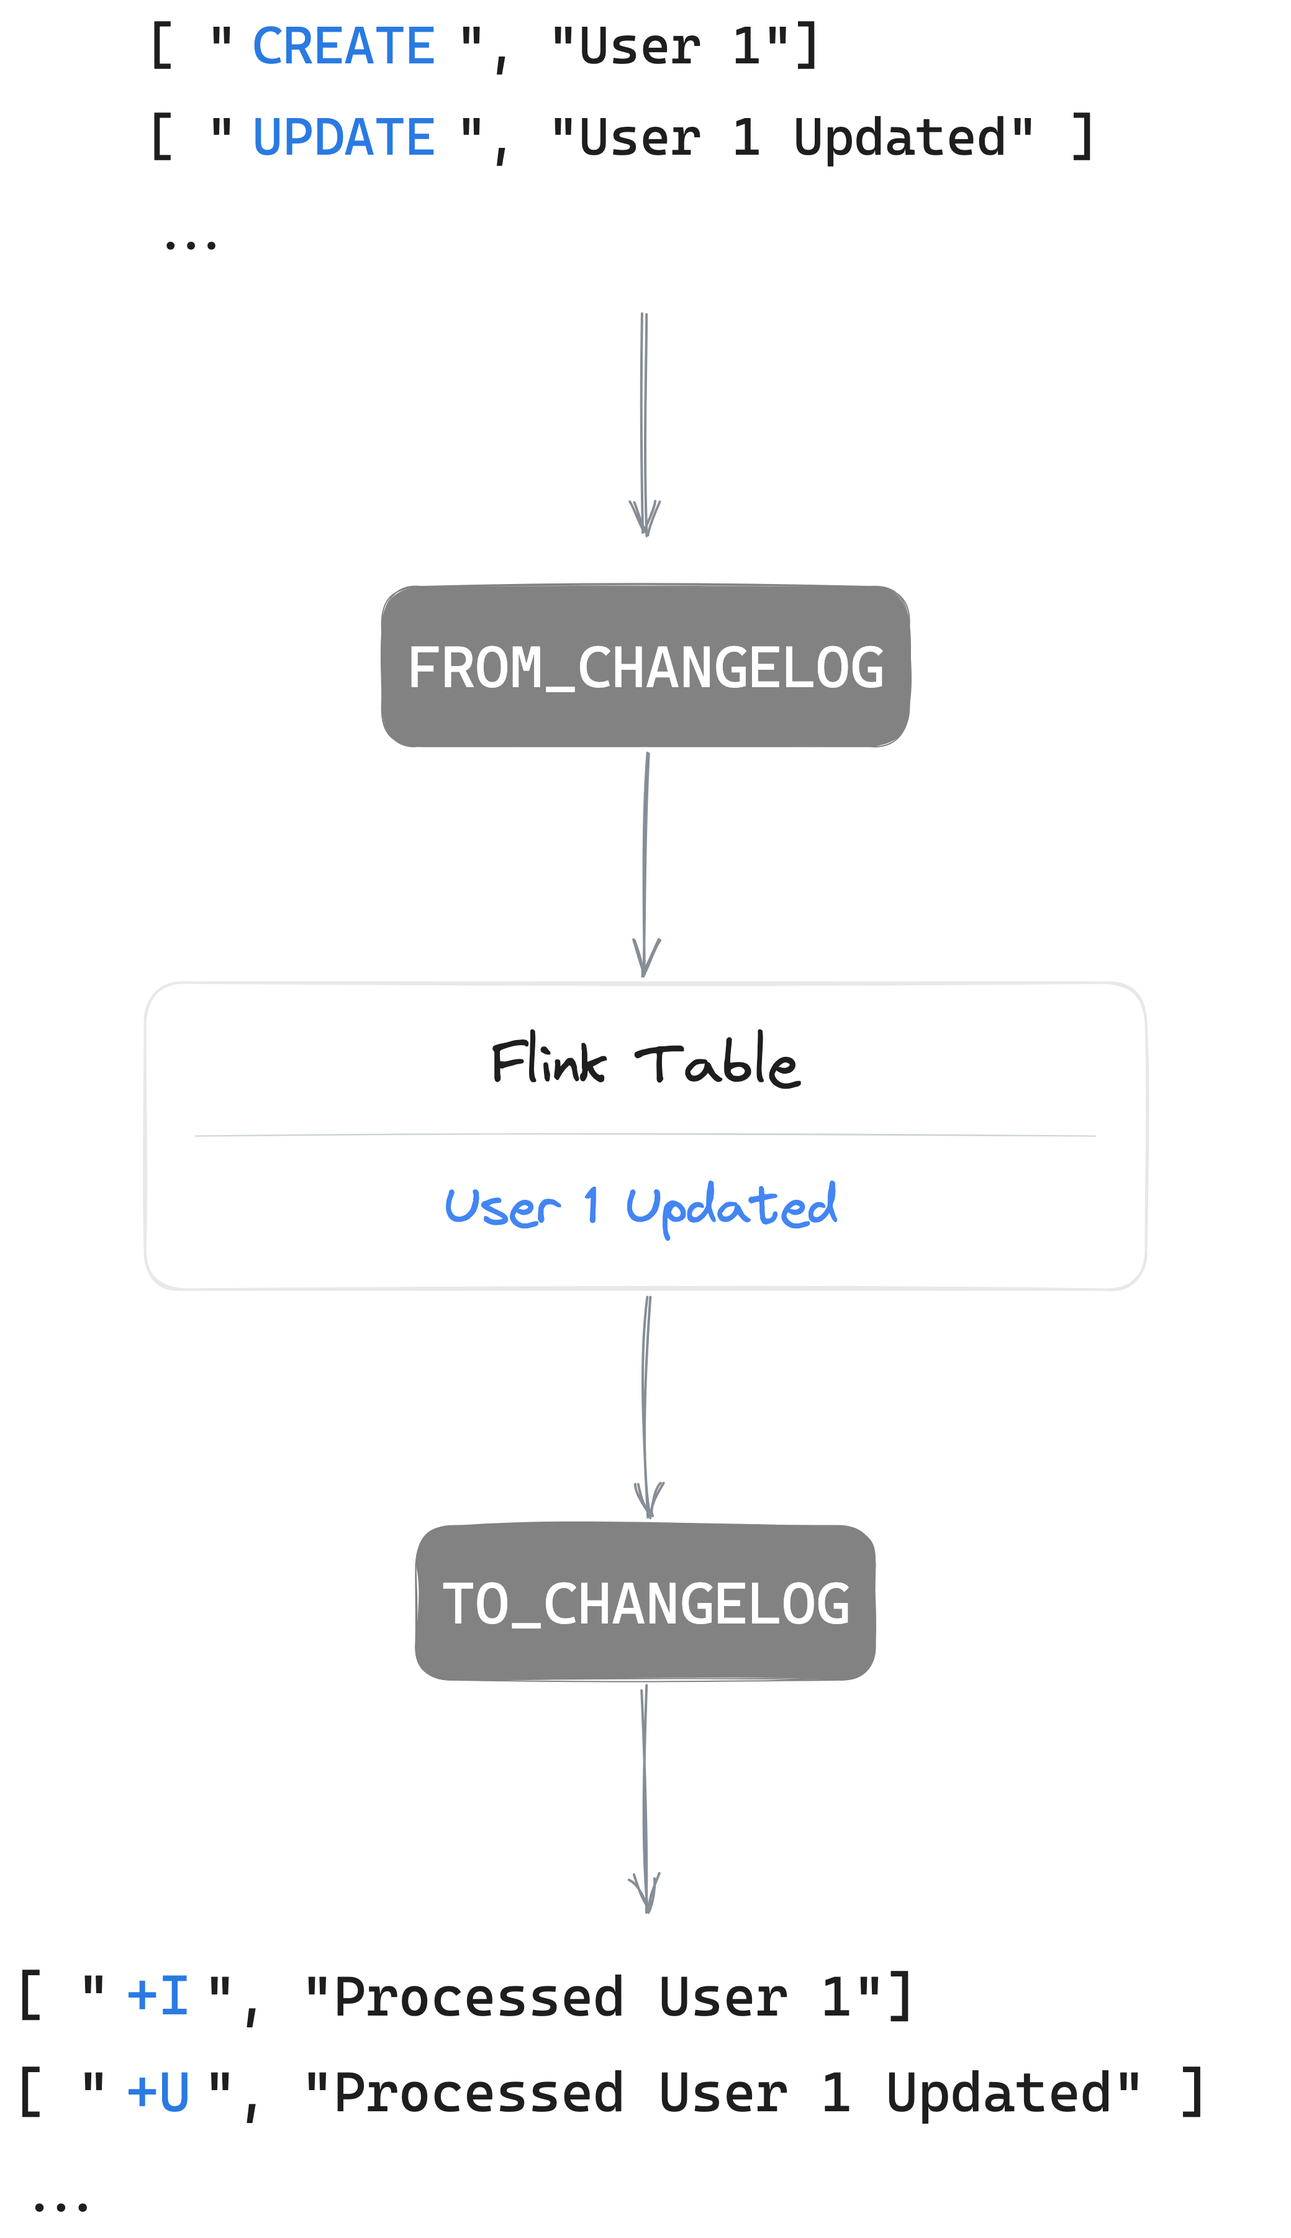
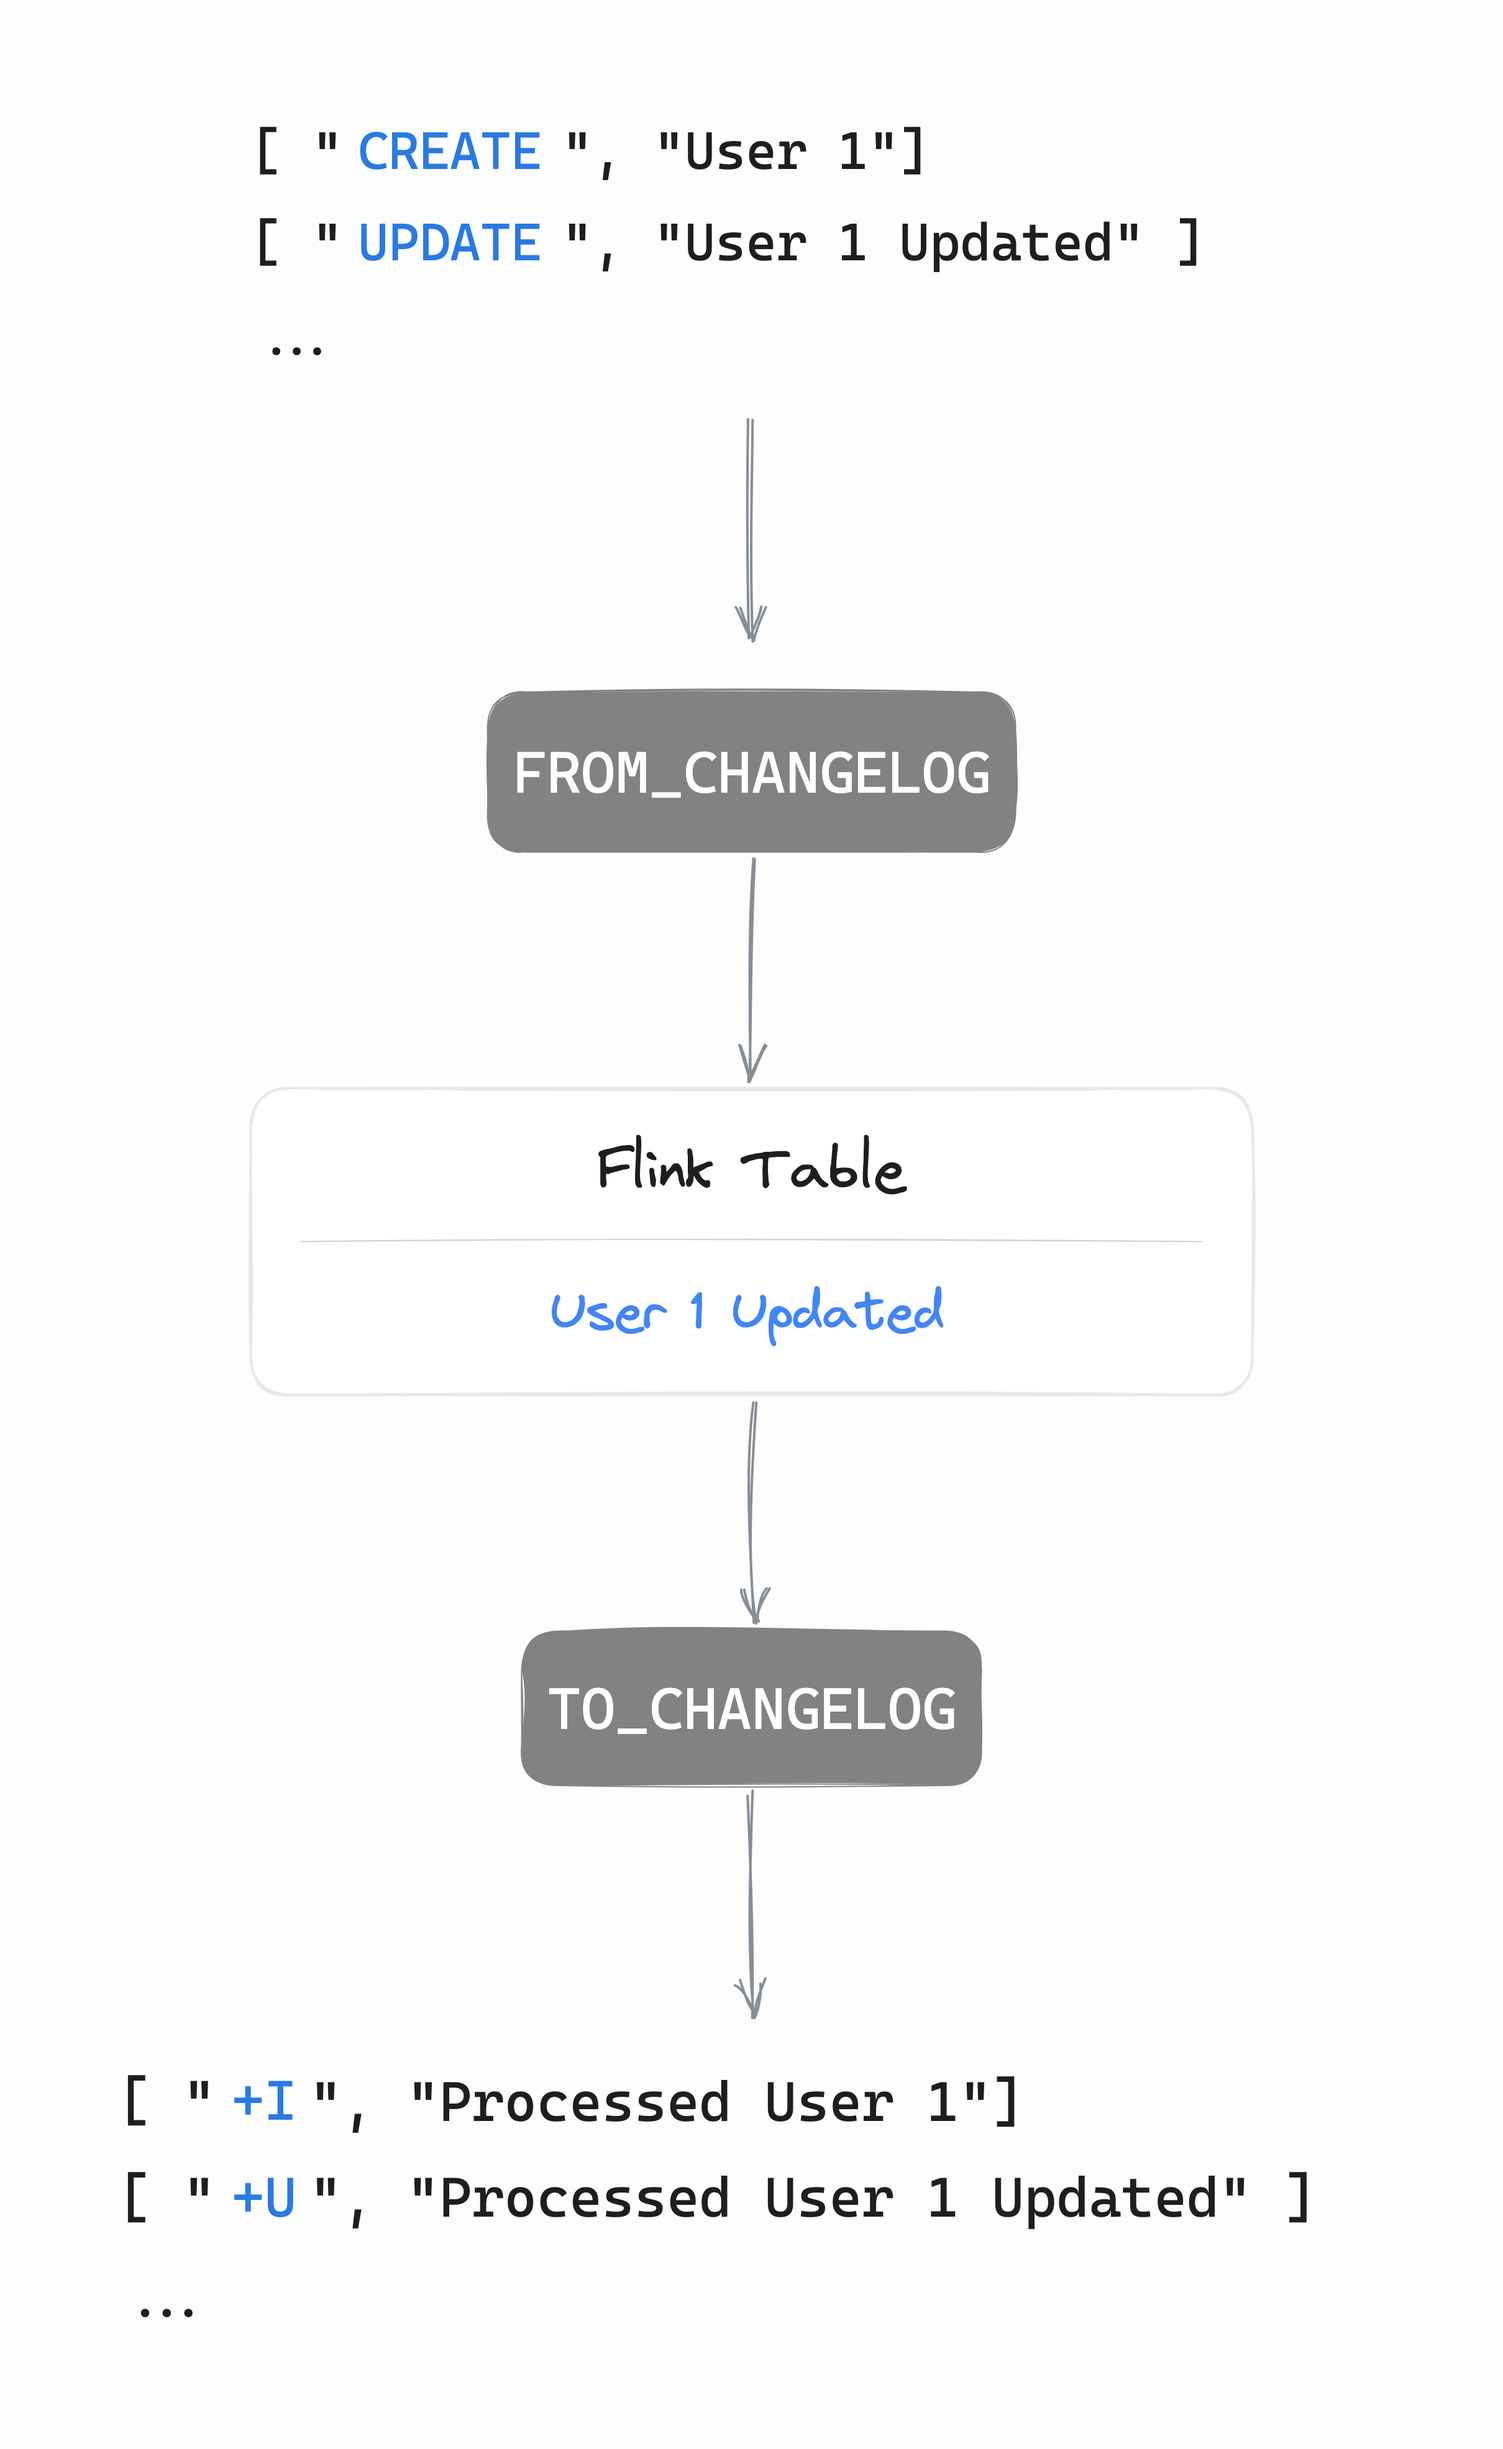
Match diagram background to page, add padding, cap thumbnail size

diff --git a/assets/main.scss b/assets/main.scss
@@ -7,6 +7,9 @@
   cursor: zoom-in;
   display: block;
   margin: 2.5em auto;
+  max-height: 600px;
+  width: auto;
+  max-width: 100%;
 }
 
 .heading-anchor {
@@ -46,5 +49,6 @@ h6:hover .heading-anchor {
 .lightbox-overlay img {
   max-width: 90%;
   max-height: 90%;
+  margin: 0;
   cursor: zoom-out;
 }
